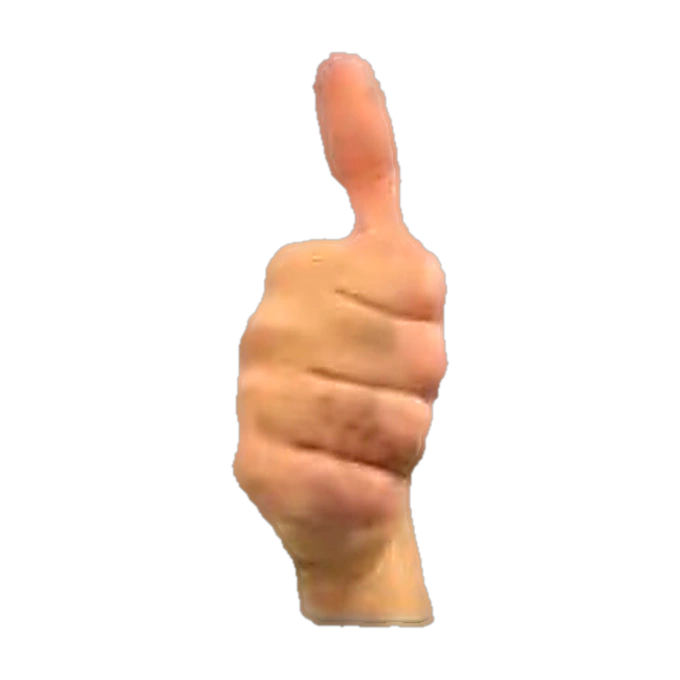
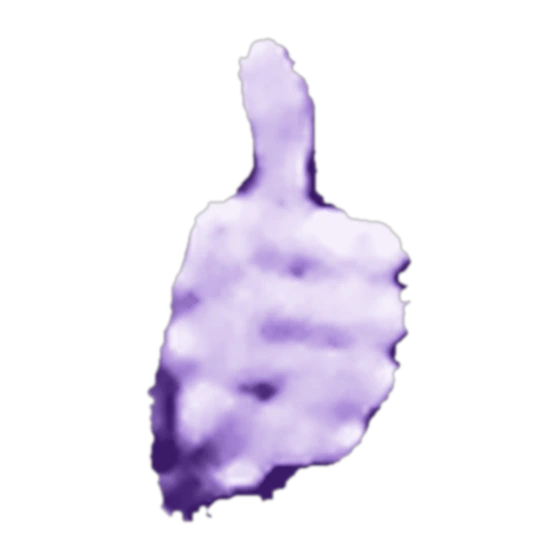
Thirty-nine signs from the better chart, in the site's own colours
The أبجدية الأصابع العربية chart is the right source: clearer poses,
and eleven shapes the last one did not carry — ة, the hamza forms
أ إ آ ؤ ئ ئـ ء, ى, لا and the article ال. Twenty-eight becomes
thirty-nine.

Not the chart's colours. Each hand's own light and shade is mapped
onto a violet ramp of this site's — deep violet in the shadows,
near-white in the highlights — so the modelling that tells one
finger from the next survives while none of the chart's blue, mauve
or cream does.

Vector tracing was tried first and thrown away. The reference is
about fifty-five pixels across per hand; a hard-edged trace of
something that small loses the creases between the fingers, and the
letters stopped being tellable apart. Generating handshapes outright
was never on the table — a wrong finger count teaches the wrong
letter, and that is the one failure this section cannot have.

Two things that mattered in getting it clean. The tiles are a
gradient, blue on one side and mauve on the other, and the mauve
half is warm enough to read as skin; r-b separates all three
outright — hand 60-71, mauve 24, blue negative. And the scan is
grainy, so it is denoised before it is sharpened rather than after,
which was turning noise into crisp noise.

Claude-Session: https://claude.ai/code/session_015fkDRsFXh8zDHoA65p6S9L

Changed region(s): [[0.2429, 0.0607, 0.7589, 0.9411]]

diff --git a/index.html b/index.html
@@ -773,8 +773,7 @@ button.link:hover { color: var(--white); transform: none; box-shadow: none; }
   border-radius: var(--r-lg); background: rgba(255,255,255,.045); border: var(--hair);
   box-shadow: none; }
 .alpha .a-hand { width: 100%; aspect-ratio: 1; display: block; }
-.alpha .a-hand img { width: 100%; height: 100%; object-fit: contain; display: block;
-  filter: drop-shadow(0 6px 14px rgba(0,0,0,.4)); }
+.alpha .a-hand img { width: 100%; height: 100%; object-fit: contain; display: block; }
 .alpha .a-txt { display: flex; align-items: baseline; gap: .45rem; }
 .ksl-credit { margin: 0; font-size: .78rem; font-weight: 300; line-height: 1.55;
   color: var(--ink-soft); max-width: var(--measure); }
@@ -789,8 +788,7 @@ button.link:hover { color: var(--white); transform: none; box-shadow: none; }
   padding: 1.2rem 1.35rem; border-radius: var(--r-lg); background: var(--grad-soft);
   border: var(--hair-lit); }
 .lh-fig { width: min(50vw, 236px); aspect-ratio: 1; display: block; }
-.lh-fig img { width: 100%; height: 100%; object-fit: contain; display: block;
-  filter: drop-shadow(0 10px 24px rgba(0,0,0,.45)); }
+.lh-fig img { width: 100%; height: 100%; object-fit: contain; display: block; }
 .lh-txt { display: grid; gap: .1rem; justify-items: end; text-align: right; }
 .lh-l { font-family: var(--f-ar); font-size: clamp(3rem, 14vw, 4.2rem); line-height: 1; color: var(--white); }
 .lh-n { font-family: var(--f-ar); font-size: 1.25rem; color: var(--lilac); }
@@ -1825,7 +1823,7 @@ input[type="range"]:focus-visible { outline: 2px solid var(--white); outline-off
         <!-- Which build is actually running. A single HTML file gets cached
              hard on phones, and without this there is no way to tell a fixed
              site from a stale copy of it except by guessing. -->
-        <p class="build-mark">Guild build 49 &middot; 25 Sep</p>
+        <p class="build-mark">Guild build 50 &middot; 25 Sep</p>
       </div>
 
       <!-- ── THE SIX DIGITS ──
@@ -4532,14 +4530,20 @@ const KU_MINOR = {
 /* ═══════════ REGISTRY ═══════════ */
 
 /* ── الهجاء الإصبعي · THE MANUAL ALPHABET ──────────────────────────
-   Twenty-eight letters, each a photograph of the hand making it.
+   Thirty-nine shapes: the twenty-eight letters, then the hamza forms,
+   alif maqsura, lam-alif and the article.
 
-   Cut from the Kuwaiti manual alphabet chart published by
-   @ksl_dictionary: the page, the disc it sat on and the chart's own
-   lettering all removed, the edge decontaminated so no background
-   colour bleeds into the rim, and every hand scaled to the same weight
-   inside its frame. The hand in each one is theirs, and the credit says
-   so. */
+   Cut from the أبجدية الأصابع العربية chart published by @ksl_dictionary,
+   then re-lit: each hand's own light and shade is mapped onto the site's
+   violet ramp, so the modelling that tells one finger from the next
+   survives while none of the chart's colour does.
+
+   Vector tracing was tried first and abandoned. The reference is only
+   about fifty-five pixels across per hand, and a hard-edged trace of
+   something that small loses the creases between the fingers entirely —
+   the letters stopped being distinguishable. A machine-invented
+   handshape was never an option: getting a finger count wrong teaches
+   the wrong letter. */
 const KSL_ALPHA = [
   { l: "ا", n: "أَلِف", t: "ʾalif", img: "ksl/alif.webp" },
   { l: "ب", n: "باء", t: "bāʾ", img: "ksl/ba.webp" },
@@ -4571,8 +4575,25 @@ const KSL_ALPHA = [
   { l: "ي", n: "ياء", t: "yāʾ", img: "ksl/ya.webp" },
 ];
 
-const KSL_CREDIT = "Handshapes from the Kuwaiti manual alphabet published by <b>@ksl_dictionary</b>, " +
-  "credited here while their permission is sought. They come down the day they ask.";
+/* Not letters of the alphabet, but part of the same fingerspelling set
+   and on the same chart. */
+const KSL_EXTRA = [
+  { l: "ة", n: "تاء مربوطة", t: "tāʾ marbūṭa", img: "ksl/tamarbuta.webp" },
+  { l: "أ", n: "ألف بهمزة فوقها", t: "ʾalif + hamza above", img: "ksl/alifhamza.webp" },
+  { l: "إ", n: "ألف بهمزة تحتها", t: "ʾalif + hamza below", img: "ksl/alifhamzabelow.webp" },
+  { l: "آ", n: "ألف ممدودة", t: "ʾalif madda", img: "ksl/alifmadda.webp" },
+  { l: "ؤ", n: "واو بهمزة", t: "wāw + hamza", img: "ksl/wawhamza.webp" },
+  { l: "ئ", n: "ياء بهمزة", t: "yāʾ + hamza", img: "ksl/yahamza.webp" },
+  { l: "ئـ", n: "ياء بهمزة — متّصلة", t: "yāʾ + hamza, joined", img: "ksl/yahamza2.webp" },
+  { l: "ء", n: "همزة", t: "hamza", img: "ksl/hamza.webp" },
+  { l: "ى", n: "ألف مقصورة", t: "ʾalif maqṣūra", img: "ksl/alifmaqsura.webp" },
+  { l: "لا", n: "لام ألف", t: "lām-ʾalif", img: "ksl/lamalif.webp" },
+  { l: "ال", n: "أداة التعريف", t: "al-, the article", img: "ksl/al.webp" },
+];
+function kslAll() { return KSL_ALPHA.concat(KSL_EXTRA); }
+
+const KSL_CREDIT = "Drawn for this site from the Arabic finger alphabet published by " +
+  "<b>@ksl_dictionary</b>, credited while their permission is sought.";
 
 /* What a sign is assembled from — a checklist for watching a video. */
 const KSL_PARAMS = [
@@ -7633,16 +7654,14 @@ function allMinorCourses() {
 
 
 /* Built as an element rather than written into an HTML string: the
-   browser's preload scanner reads the page source ahead of the parser
-   and will try to fetch a src it finds spelled out there. */
+   preload scanner reads the page source ahead of the parser and will
+   try to fetch a src it finds spelled out there. */
 function handFig(L) {
   const im = document.createElement("img");
   im.src = L.img;
   im.alt = "The handshape for " + L.n;
-  im.width = 680; im.height = 680;
+  im.width = 560; im.height = 560;
   im.decoding = "async";
-  /* no lazy loading in the grid: the hands are the page, and a tile that
-     is still blank when it is scrolled past is the whole complaint */
   return im;
 }
 
@@ -7658,7 +7677,7 @@ function runKsl() {
      opens this to see signs, so signs are what is here. */
   function home() {
     stage.innerHTML = "";
-    setCount("الهجاء الإصبعي · 28");
+    setCount("الهجاء الإصبعي · 39");
     setDots(0, 0, 0);
 
     stage.appendChild(el("p", "lede",
@@ -7667,7 +7686,7 @@ function runKsl() {
       "<b>Tap any letter to see the hand large.</b>"));
 
     const grid = el("div", "alpha-grid");
-    KSL_ALPHA.forEach((L, i) => {
+    kslAll().forEach((L, i) => {
       const b = el("button", "alpha");
       b.innerHTML =
         '<span class="a-hand"></span>' +
@@ -7728,7 +7747,7 @@ function runKsl() {
 
   /* ── one letter ── */
   function letter(i) {
-    const ALL = KSL_ALPHA;
+    const ALL = kslAll();
     const L = ALL[i];
     stage.innerHTML = "";
     setCount(L.n + " · " + (i + 1) + "/" + ALL.length);
